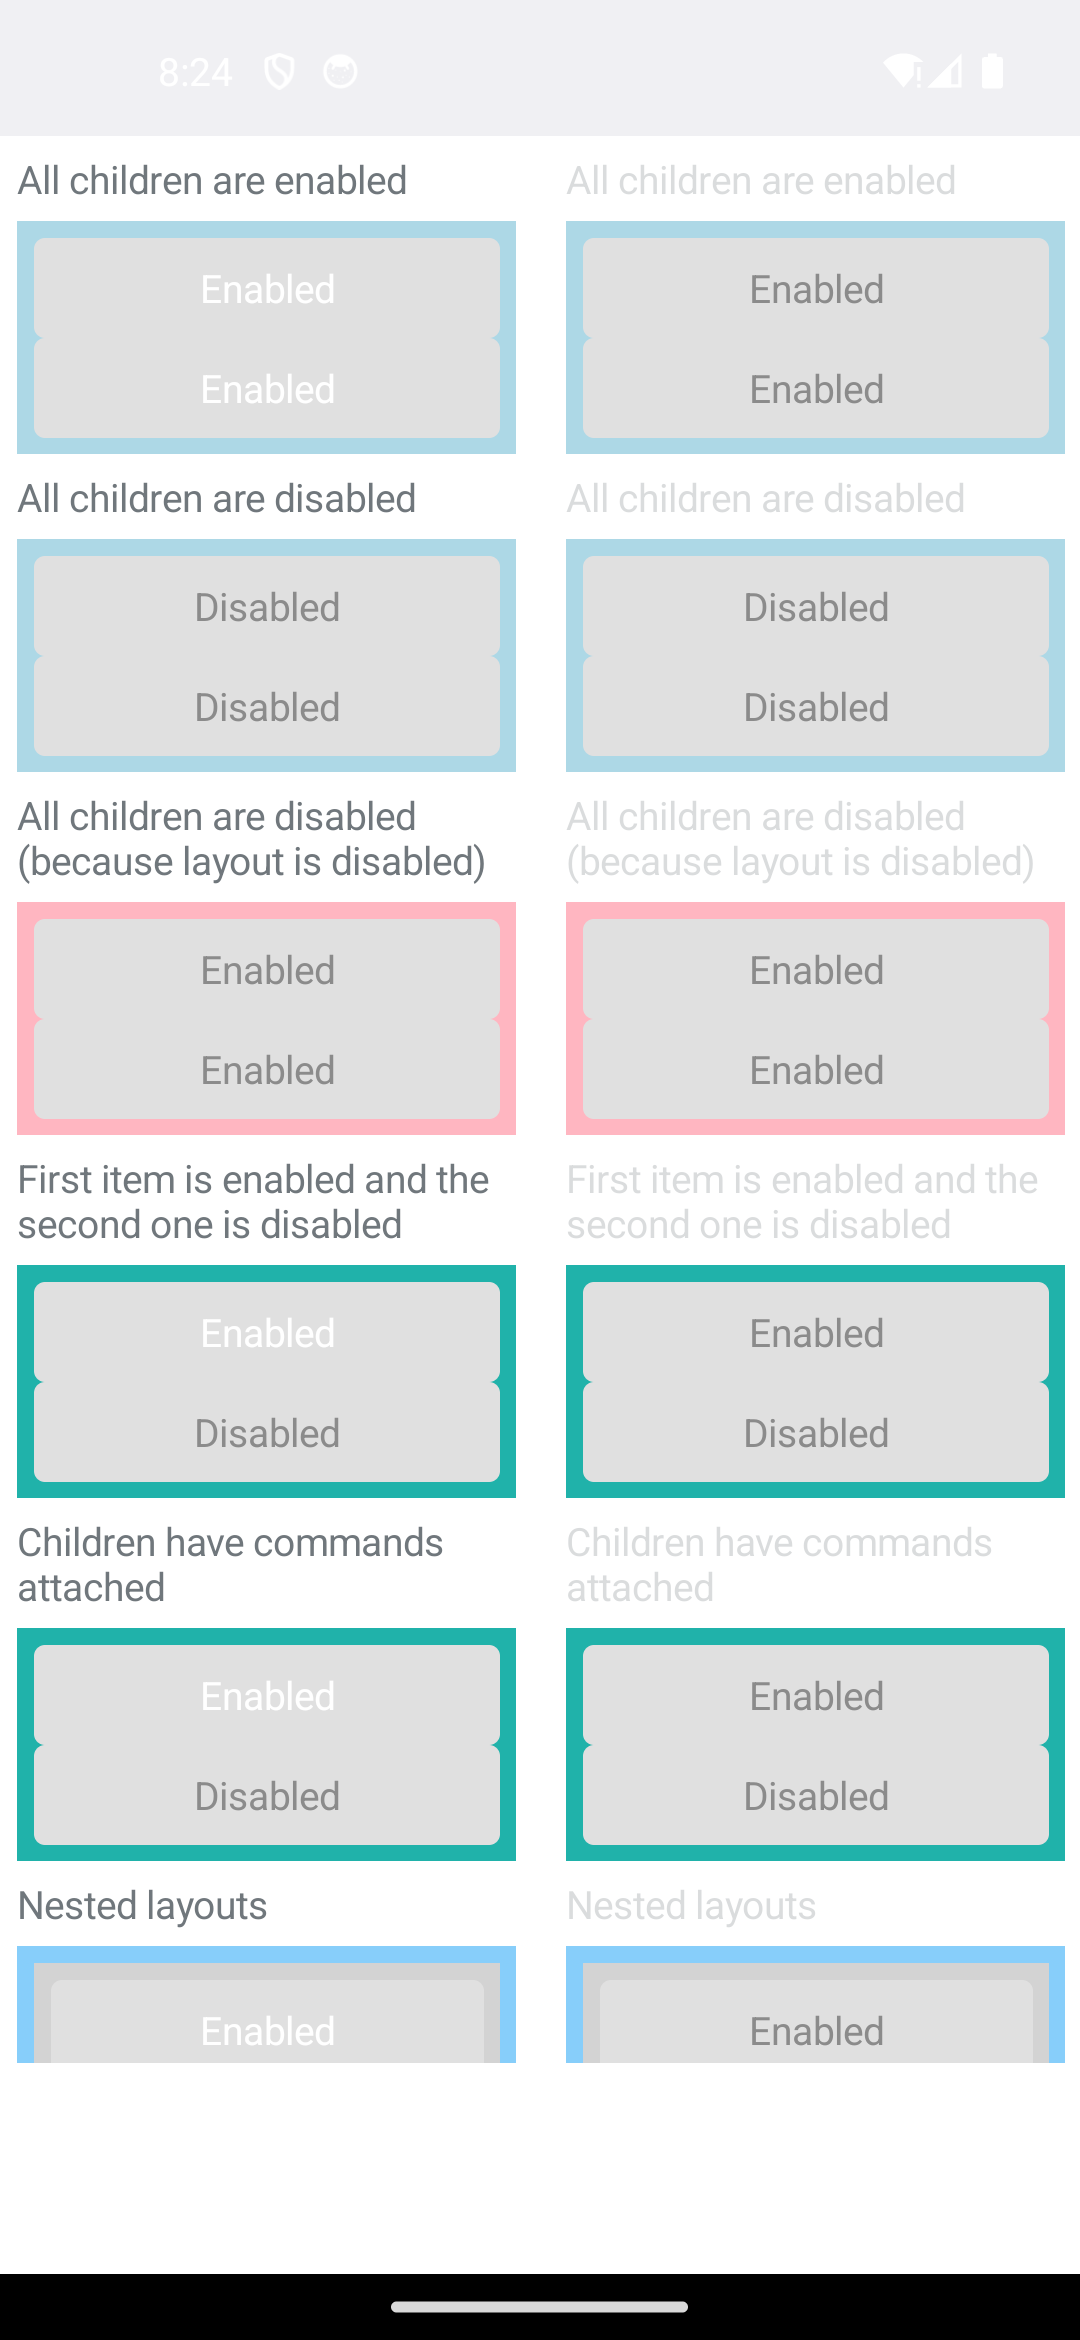
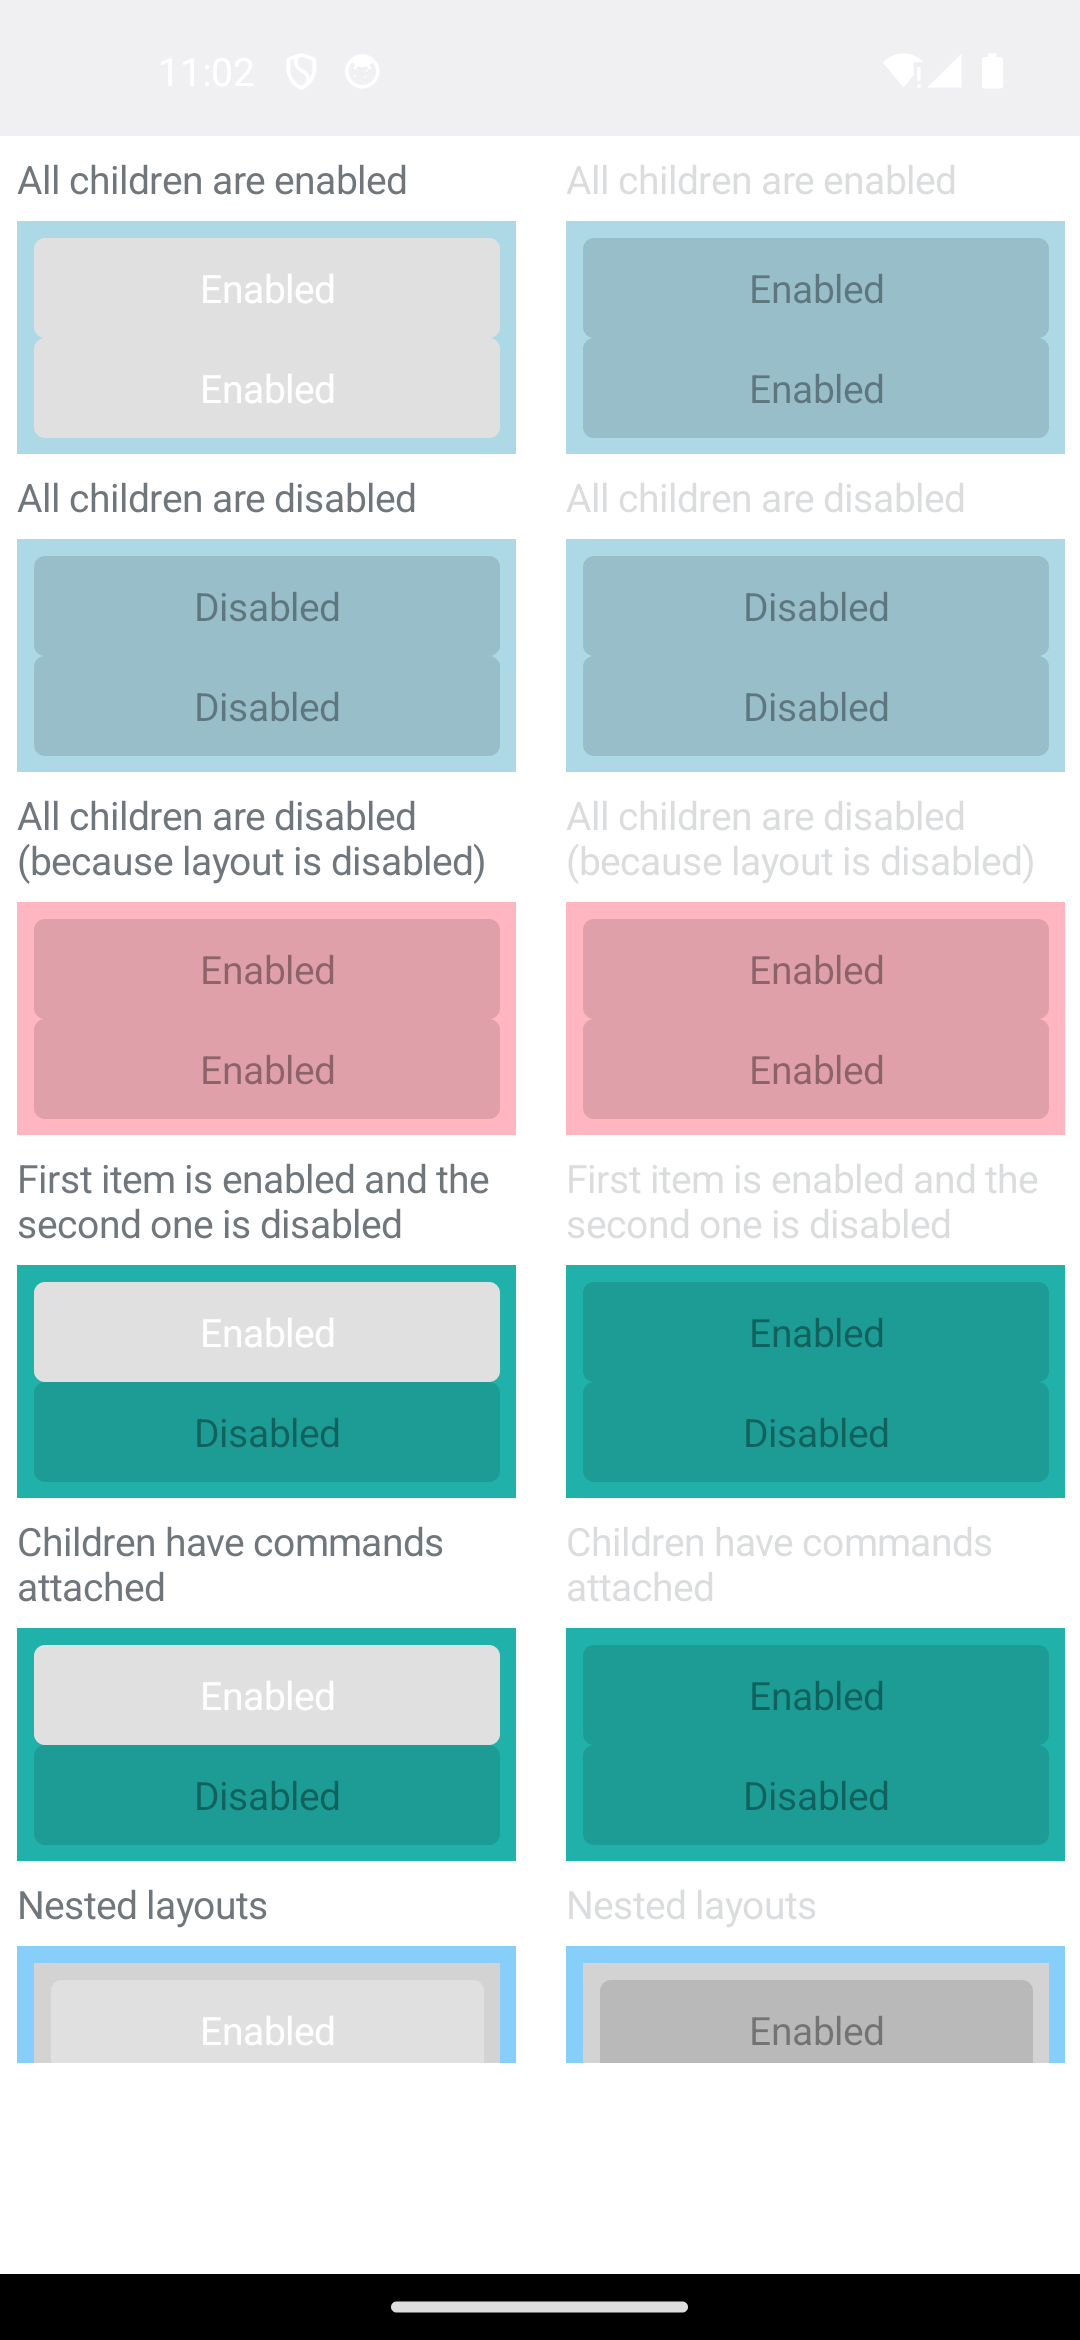
fix(android/button): disabled button dims to translucent colorOnSurface overlay (panel bleed-through)
An Android disabled MauiMaterialButton dims its container to colorOnSurface@12%
(translucent black) and its label to @38% — translucent overlays, so a colored
parent panel bleeds through (layout_is_enabled: a LightBlue panel behind a
disabled button reads (152,190,202) = panel x 0.88). The port instead painted a
disabled button an OPAQUE #E0E0E0 fill + baked #8B8B8B label, which only matched
MAUI over a white parent.

Fix (android-only handler; iOS/maccatalyst use separate handlers, unaffected):
- Add k_material_disabled_button_color = 0x1F000000 (black @~12%); switch
  k_material_disabled_text_color from opaque #8B8B8B to 0x61000000 (black @~38%).
- New set_fill_color_state_list helper: GradientDrawable.setColor(ColorStateList)
  {disabled -> 0x1F000000, enabled -> 0xFFE0E0E0} (API21+ stateful drawable, so
  setEnabled auto-switches the fill). Routed through install_flat_material_background
  AND the update_background unset-paint restore (else the single opaque setColor
  would clobber the stateful fill). Explicit-BackgroundColor buttons stay opaque.

Over a white parent both overlays composite to the historical #E0E0E0 / #8B8B8B,
so white-bg pages are pixel-identical (verified: button page matches MAUI ref
exactly, no regression). Greens layout_is_enabled android (pixel 42.76%->12.24%,
SSIM 0.87->0.96). Verified: android build, visual match, consistency 0
contradictions, button regression check pixel-identical. Triaged via a 6-agent
[…]

diff --git a/port/cpp/src/platform/android/button_handler.cpp b/port/cpp/src/platform/android/button_handler.cpp
@@ -134,9 +134,14 @@ namespace
     // custom_layout}.png): a solid opaque #E0E0E0 fill with near-square ~4dp Material-default corners,
     // installed edge-to-edge in place of the framework InsetDrawable — whose inset gap, over-rounded
     // corners, and near-invisible disabled fill were the dominant Android button parity diff. A disabled
-    // button keeps the #E0E0E0 fill and dims only its label to #8B8B8B (black @38% over #E0E0E0). The
-    // ~36dp button height is content-driven (the 8.5dp vertical padding), NOT a hard min-height floor.
+    // MauiMaterialButton dims its container to colorOnSurface@12% (translucent black) and its label to
+    // colorOnSurface@38% — TRANSLUCENT overlays, so a colored parent panel bleeds through (layout_is_enabled:
+    // a LightBlue panel behind a disabled button reads (152,190,202) = panel x 0.88, not opaque #E0E0E0).
+    // Over a white parent both composite to the historical #E0E0E0 fill / #8B8B8B label, so white-bg pages are
+    // unchanged. The ~36dp button height is content-driven (the 8.5dp vertical padding), NOT a min-height floor.
     constexpr auto k_material_default_button_color = static_cast<jint>(0xFFE0E0E0U);
+    // Disabled-state overlays (colorOnSurface = black in the light Material theme): container @~12%, label @~38%.
+    constexpr auto k_material_disabled_button_color = static_cast<jint>(0x1F000000U); // black @ ~12% alpha
     constexpr double k_material_button_corner_radius = 4;
     // MauiMaterialButton REMOVES the framework's 88x48dp Material minimum (styles.xml "MAUI manages it"), so a
     // one-line button realizes ~36dp = 2x8.5dp vertical padding + ~19dp text line (pixel-verified vs the MAUI
@@ -144,7 +149,8 @@ namespace
     // 48dp minHeight, rendering ~11dp too tall; override it down to the content-driven ~36dp floor so buttons
     // match MAUI without collapsing (0 would let TextView.onMeasure drop to text-only at map time).
     constexpr double k_material_button_min_height = 36;
-    constexpr auto k_material_disabled_text_color = static_cast<jint>(0xFF8B8B8BU);
+    constexpr auto k_material_disabled_text_color =
+        static_cast<jint>(0x61000000U); // black @ ~38% alpha (composites over the panel, not a baked #8B8B8B)
 
     // FontManager.DefaultFontSize (Android) — 14sp.
     constexpr float k_default_font_size = 14.0F;
@@ -396,6 +402,9 @@ namespace
         return fresh;
     }
 
+    // Forward decl: the stateful-fill helper is defined below (next to set_text_color_state_list) but used here.
+    [[nodiscard]] bool set_fill_color_state_list(JNIEnv* env, jobject drawable, jint default_argb, jint disabled_argb);
+
     // Replace the framework Material InsetDrawable background with MAUI's flat MauiMaterialButton fill: a
     // solid #E0E0E0 GradientDrawable with ~4dp corners, installed edge-to-edge (no inset gap between docked
     // buttons, no near-invisible disabled state). setBackground zeroes the view's padding to the drawable's
@@ -417,7 +426,13 @@ namespace
             return;
         }
         const float density = display_density(env, widget);
-        env->CallVoidMethod(drawable.get(), set_color, k_material_default_button_color);
+        // Stateful fill so a disabled button dims to colorOnSurface@12% (bleeding a colored parent through)
+        // rather than staying opaque #E0E0E0; fall back to the plain opaque fill if the CSL can't be built.
+        if (!set_fill_color_state_list(env, drawable.get(), k_material_default_button_color,
+                                       k_material_disabled_button_color))
+        {
+            env->CallVoidMethod(drawable.get(), set_color, k_material_default_button_color);
+        }
         if (clear_pending(env))
         {
             return;
@@ -506,6 +521,58 @@ namespace
             return false;
         }
         env->CallVoidMethod(widget, set_text_color, state_list.get());
+        return !clear_pending(env);
+    }
+
+    // Fill the flat GradientDrawable with a two-state ColorStateList {disabled → disabled_argb, default →
+    // default_argb} via GradientDrawable.setColor(ColorStateList) (API 21+; a ColorStateList makes the drawable
+    // stateful, so the View's drawableStateChanged on setEnabled auto-switches the fill — no manual repaint).
+    // The disabled fill is a TRANSLUCENT overlay (colorOnSurface@12%) so a colored parent panel bleeds through,
+    // matching MAUI; over white it composites to the same #E0E0E0. Returns false (caller falls back to a plain
+    // setColor(I)) on any JNI failure or the VM-less path. Mirrors set_text_color_state_list's state array.
+    [[nodiscard]] bool set_fill_color_state_list(JNIEnv* env, jobject drawable, jint default_argb, jint disabled_argb)
+    {
+        auto& cache = default_jni_cache();
+        jclass color_state_list_class = cache.find_class(env, "android/content/res/ColorStateList");
+        jmethodID ctor = cache.method(env, "android/content/res/ColorStateList", "<init>", "([[I[I)V");
+        jmethodID set_color_csl =
+            cache.method(env, k_gradient_drawable_class, "setColor", "(Landroid/content/res/ColorStateList;)V");
+        jclass int_array_class = cache.find_class(env, "[I");
+        if (color_state_list_class == nullptr || ctor == nullptr || set_color_csl == nullptr ||
+            int_array_class == nullptr)
+        {
+            return false;
+        }
+        constexpr jint k_state_enabled = 0x0101009e; // android.R.attr.state_enabled (stable public id)
+        const jint disabled_spec = -k_state_enabled;
+        const local_ref<jintArray> disabled_state{env, env->NewIntArray(1)};
+        const local_ref<jintArray> default_state{env, env->NewIntArray(0)};
+        if (clear_pending(env) || !disabled_state || !default_state)
+        {
+            return false;
+        }
+        env->SetIntArrayRegion(disabled_state.get(), 0, 1, &disabled_spec);
+        const local_ref<jobjectArray> states{env, env->NewObjectArray(2, int_array_class, nullptr)};
+        if (clear_pending(env) || !states)
+        {
+            return false;
+        }
+        env->SetObjectArrayElement(states.get(), 0, disabled_state.get());
+        env->SetObjectArrayElement(states.get(), 1, default_state.get());
+        const std::array<jint, 2> color_values{disabled_argb, default_argb};
+        const local_ref<jintArray> colors{env, env->NewIntArray(2)};
+        if (clear_pending(env) || !colors)
+        {
+            return false;
+        }
+        env->SetIntArrayRegion(colors.get(), 0, 2, color_values.data());
+        const local_ref<jobject> state_list{env,
+                                            env->NewObject(color_state_list_class, ctor, states.get(), colors.get())};
+        if (clear_pending(env) || !state_list)
+        {
+            return false;
+        }
+        env->CallVoidMethod(drawable, set_color_csl, state_list.get());
         return !clear_pending(env);
     }
 
@@ -690,9 +757,20 @@ namespace maui::core
         {
             return;
         }
-        const jint argb =
-            value != nullptr ? static_cast<jint>(value->background_color().to_int()) : k_material_default_button_color;
-        env->CallVoidMethod(drawable.get(), set_color, argb);
+        if (value == nullptr)
+        {
+            // Restore the flat default with the SAME stateful fill create_platform_view installs, so a null/
+            // cleared paint doesn't clobber the disabled colorOnSurface@12% state back to an opaque #E0E0E0.
+            if (!set_fill_color_state_list(env.get(), drawable.get(), k_material_default_button_color,
+                                           k_material_disabled_button_color))
+            {
+                env->CallVoidMethod(drawable.get(), set_color, k_material_default_button_color);
+            }
+            clear_pending(env.get());
+            return;
+        }
+        // An explicit BackgroundColor is a single opaque fill (MAUI's ButtonExtensions.UpdateButtonBackground).
+        env->CallVoidMethod(drawable.get(), set_color, static_cast<jint>(value->background_color().to_int()));
         clear_pending(env.get());
     }
 

diff --git a/port/cpp/docs/comparison/README.md b/port/cpp/docs/comparison/README.md
@@ -7363,8 +7363,8 @@ Real .NET MAUI vs the C++ port vs the compile-time-XAML gallery, captured on the
 
 | Classification | Sonnet 5 | Gemini |
 | --- | --- | --- |
-| 🟢 Match | 160 | 0 |
-| 🟡 Minor | 11 | 0 |
+| 🟢 Match | 161 | 0 |
+| 🟡 Minor | 10 | 0 |
 | 🔴 Major | 1 | 0 |
 | ⬛ Blank | 0 | 0 |
 | ⏳ Unreviewed | 23 | 195 |
@@ -9609,16 +9609,16 @@ _Not yet reviewed._
 
 _Not yet computed — no automated pixel-diff score is recorded for this page yet._
 
-### 121. Layout Is Enabled — 🟡/⏳
+### 121. Layout Is Enabled — 🟢/⏳
 <sub>layout_is_enabled</sub>
 
 <table><tr><th></th><th>MAUI</th><th>C++</th><th>C++ &amp; XAML</th></tr><tr><th>Light</th><td><img width="300px" src="../../../maui-reference/captures/android/layout_is_enabled_light.png" /></td><td><img width="300px" src="captures/android/cpp/layout_is_enabled_light.png" /></td><td><img width="300px" src="captures/android/xaml/layout_is_enabled_light.png" /></td></tr><tr><th>Dark</th><td><img width="300px" src="_placeholder.png" /></td><td><img width="300px" src="_placeholder.png" /></td><td><img width="300px" src="_placeholder.png" /></td></tr></table>
 
 ports LayoutIsEnabledPage.xaml (+ LayoutIsEnabledPage.xaml.cs) The C# page demonstrates how IsEnabled on a layout cascades to its children: a 2x2 grid whose left column hosts a &amp;quot;MainLayout&amp;quot; full of state-demo sub-stacks (all-enabled / all-d
 
-#### 🟡 Sonnet 5 Review
+#### 🟢 Sonnet 5 Review
 
-Improved (flat-button fix, SSIM 0.65-&gt;0.87): the 26 default buttons now render flat edge-to-edge #E0E0E0 at the correct height with MAUI-tight inter-button spacing (was inset-gapped). Residual (keeps it yellow): the disabled colored sub-stack backgrounds (LightBlue/LightPink/LightSeaGreen boxes) render lighter/less-saturated in cpp than MAUI. Both themes.
+Disabled buttons now match MAUI's Material disabled state: the container dims to colorOnSurface@12% (translucent black) and the label to @38%, so the colored parent panel bleeds through (LightBlue disabled button -&gt; (152,190,202)=panel x 0.88; teal/pink panels likewise), instead of the port's former opaque #E0E0E0 fill + baked #8B8B8B label. Enabled buttons stay opaque #E0E0E0; white-bg pages (button) are pixel-identical (black@12% over white = #E0E0E0). Fix: stateful GradientDrawable.setColor(ColorStateList) {disabled-&gt;0x1F000000, enabled-&gt;0xFFE0E0E0} in button_handler.cpp install + unset-background restore, plus disabled text ColorStateList -&gt; black@38% (0x61000000). Pixel 42.76%-&gt;12.24% (SSIM 0.87-&gt;0.96); residual is whole-page translucency/anti-aliasing across the 2-column x 6-panel layout, comparable to green sibling header_footer_grid (11.85%). android-only handler -&gt; no iOS/maccatalyst effect.
 
 #### ⏳ Gemini Review
 
